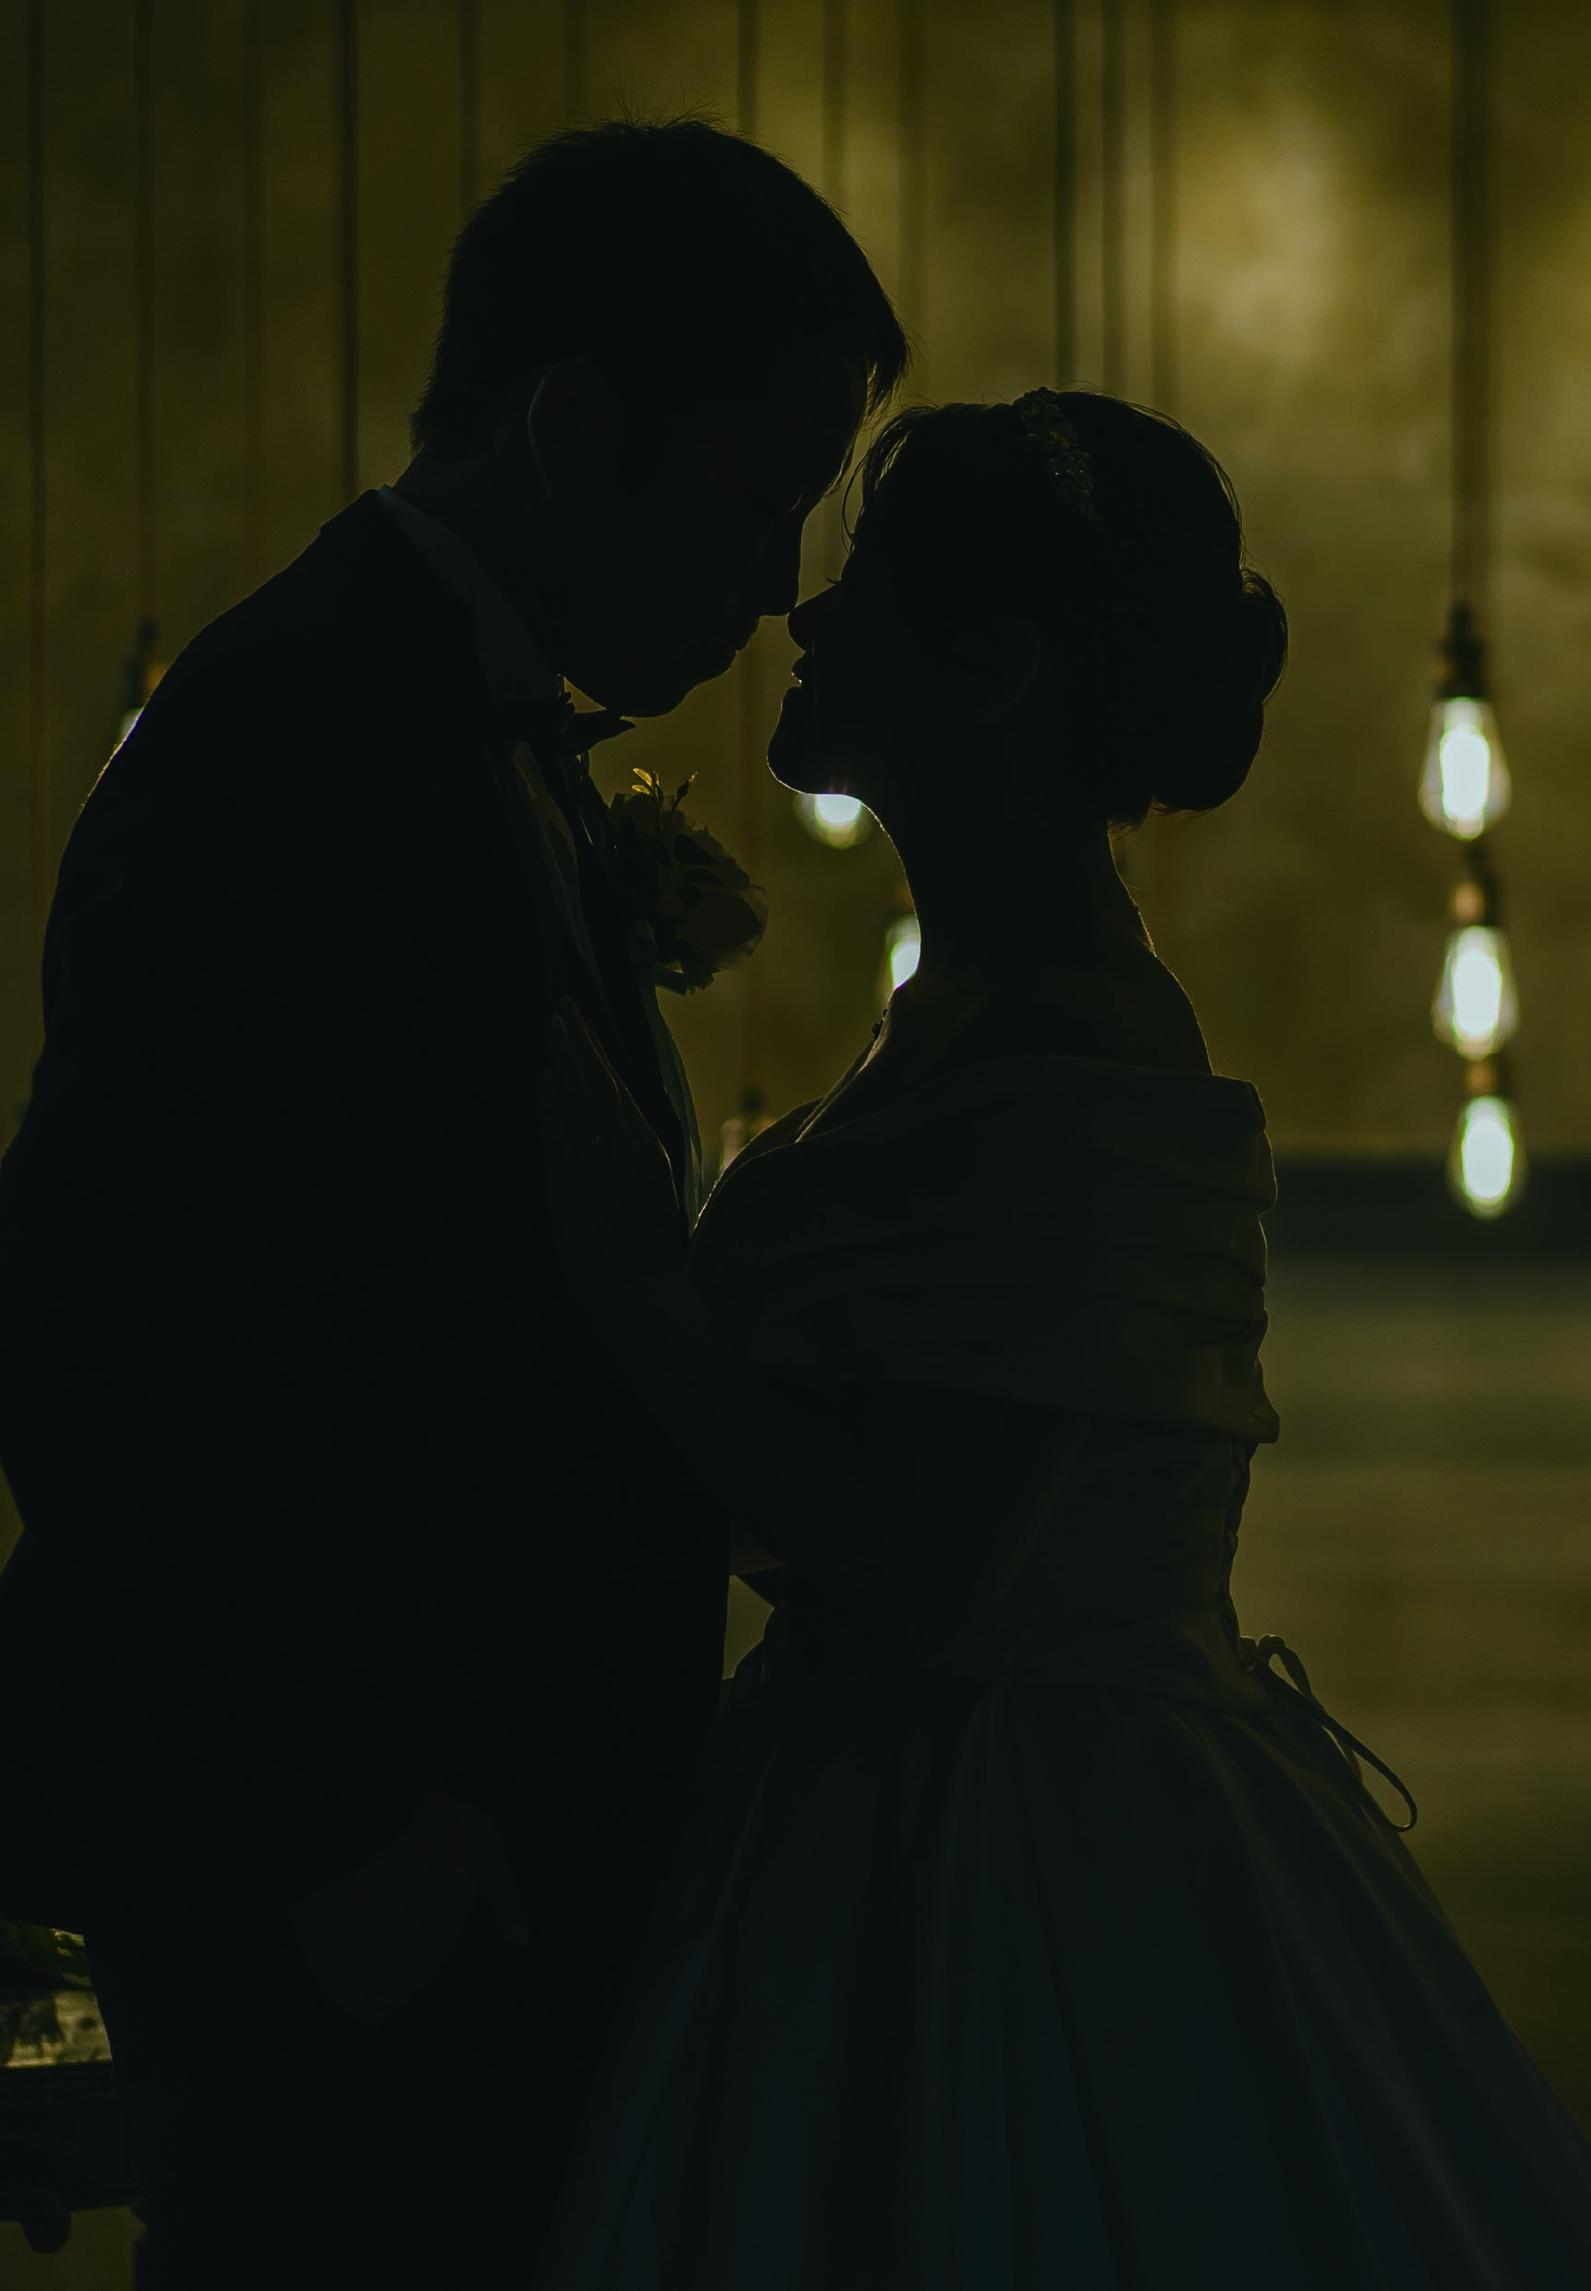
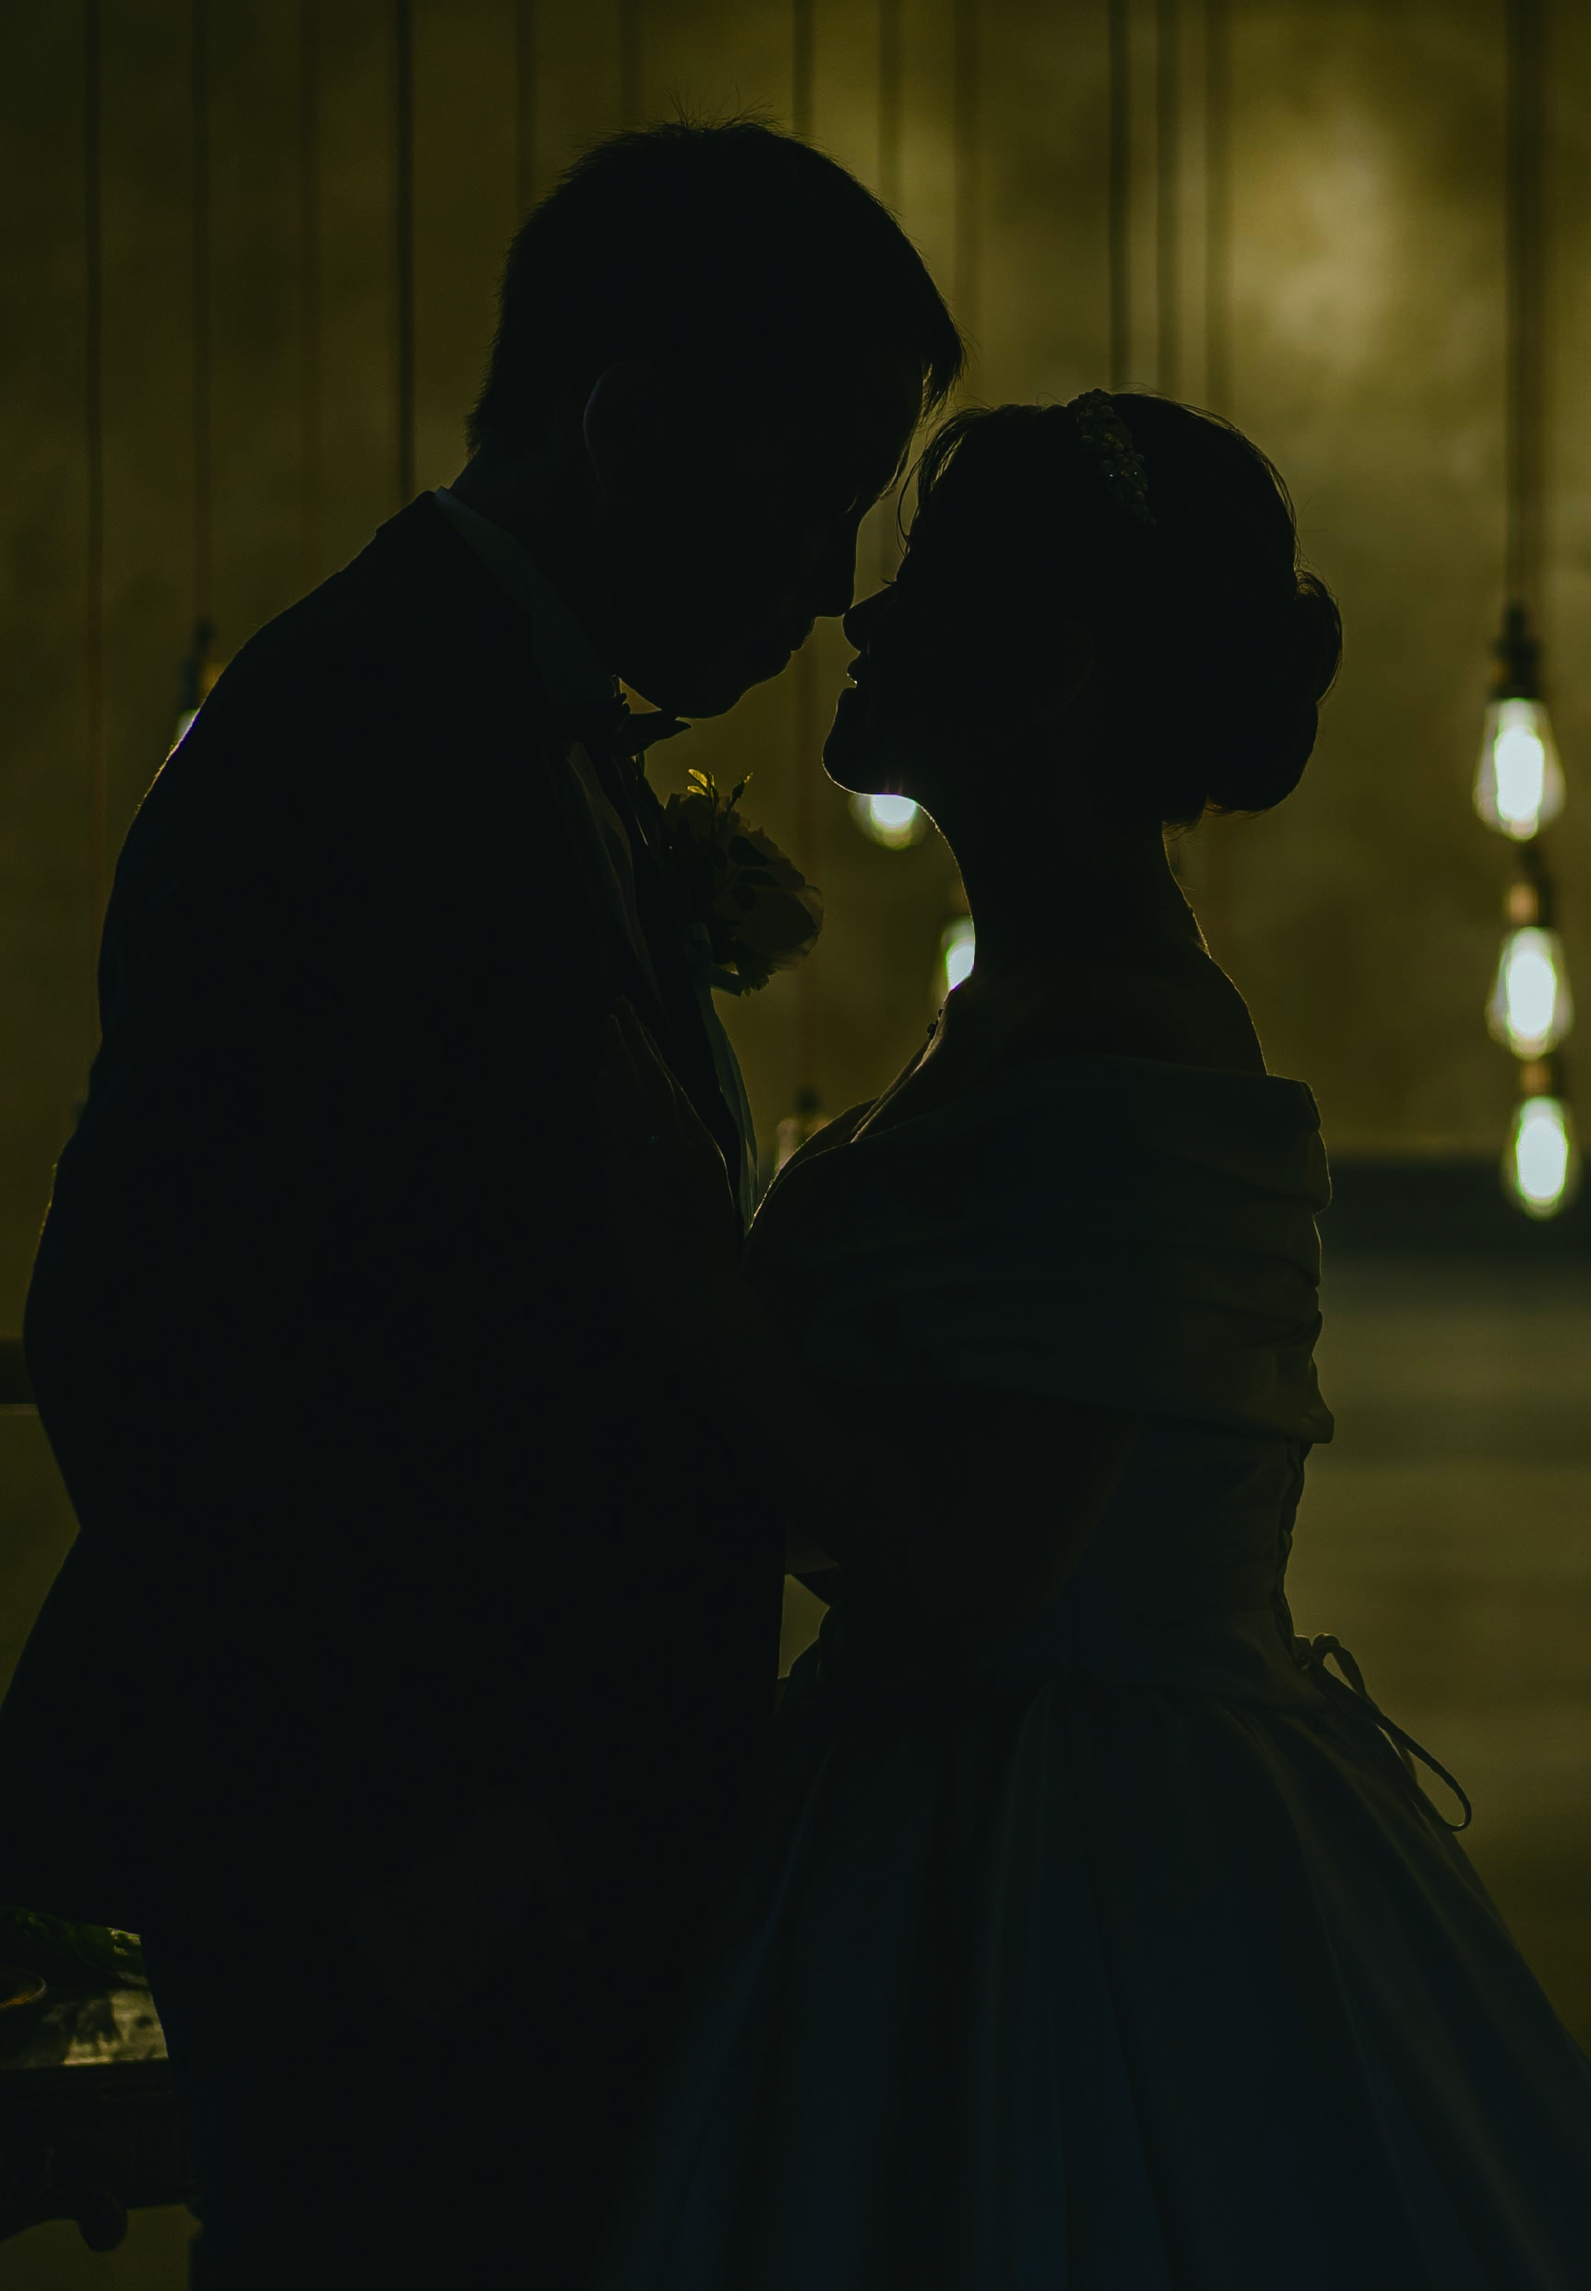
Add files via upload

diff --git a/index.html b/index.html
@@ -161,7 +161,10 @@
                     <span>Motomura&nbsp;Shogo</span>
                 </li>
                 <li class="text">
-                    <p>1995年9月13日 小松市生まれ A型 看護師<br>野球好きで 学生時代から今も続けています<br><br>マラソンも好なので一年中色黒です</p>
+                    <p>1995年9月13日 小松市生まれ A型 看護師<br>
+                        野球好きで 学生時代から今も続けています<br>
+                        マラソンも好きなので 自己ベストを出せるようにがんばっています
+                    </p>
                 </li>
             </ul>
 
@@ -175,7 +178,10 @@
                     <span>Takabatake&nbsp;Miho</span>
                 </li>
                 <li class="text">
-                    <p>1990年4月25日 松任市生まれ O型 事務職<br>興味があることを試行錯誤したり追及することが好きです<br>最近は英会話習得をがんばっています</p>
+                    <p>1990年4月25日 松任市生まれ O型 事務職<br>
+                        興味があることを 深堀することが好きです<br>
+                        最近は英会話習得をがんばっています
+                    </p>
                 </li>
             </ul>
         </div>
@@ -275,13 +281,13 @@
                                 <br>
                                 粟津駅より車で約10分<br>
                                 <br>
-                                無料駐車場がございます。
+                                無料駐車場がございます
                             </p>
                         </li>
                         <li class="cloak">
                             <h4>挙式・披露宴会場について</h4>
-                            <p>当日は 挙式をのとやロビーにて、披露宴を合掌造の間で行います。<br>
-                                披露宴会場は履物を脱いでのご参加となります。<br>
+                            <p>当日は 挙式をのとやロビーにて、披露宴を合掌造の間で行います<br>
+                                披露宴会場は履物を脱いでのご参加となります<br>
                             </p>
                         </li>
                     </ul>
@@ -325,8 +331,8 @@
 
             <!-- 結びのメッセージ -->
             <p class="footer_message">
-                皆様のご出席を心よりお待ちしております。<br>
-                当日お会いできるのを楽しみにしております。
+                皆様のご出席を心よりお待ちしております<br>
+                当日お会いできるのを楽しみにしております
             </p>
 
             <!-- トップへ戻るボタン -->
